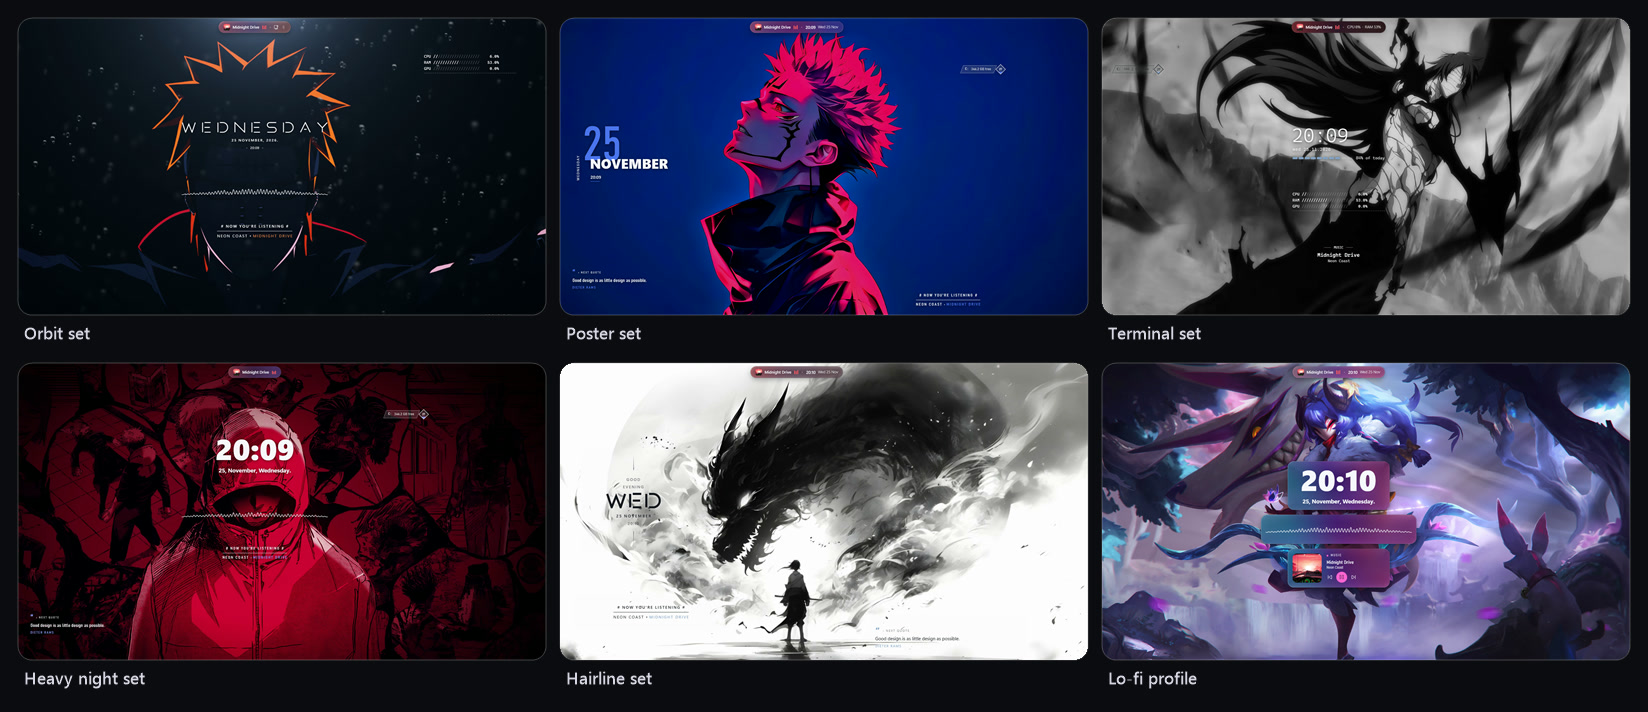
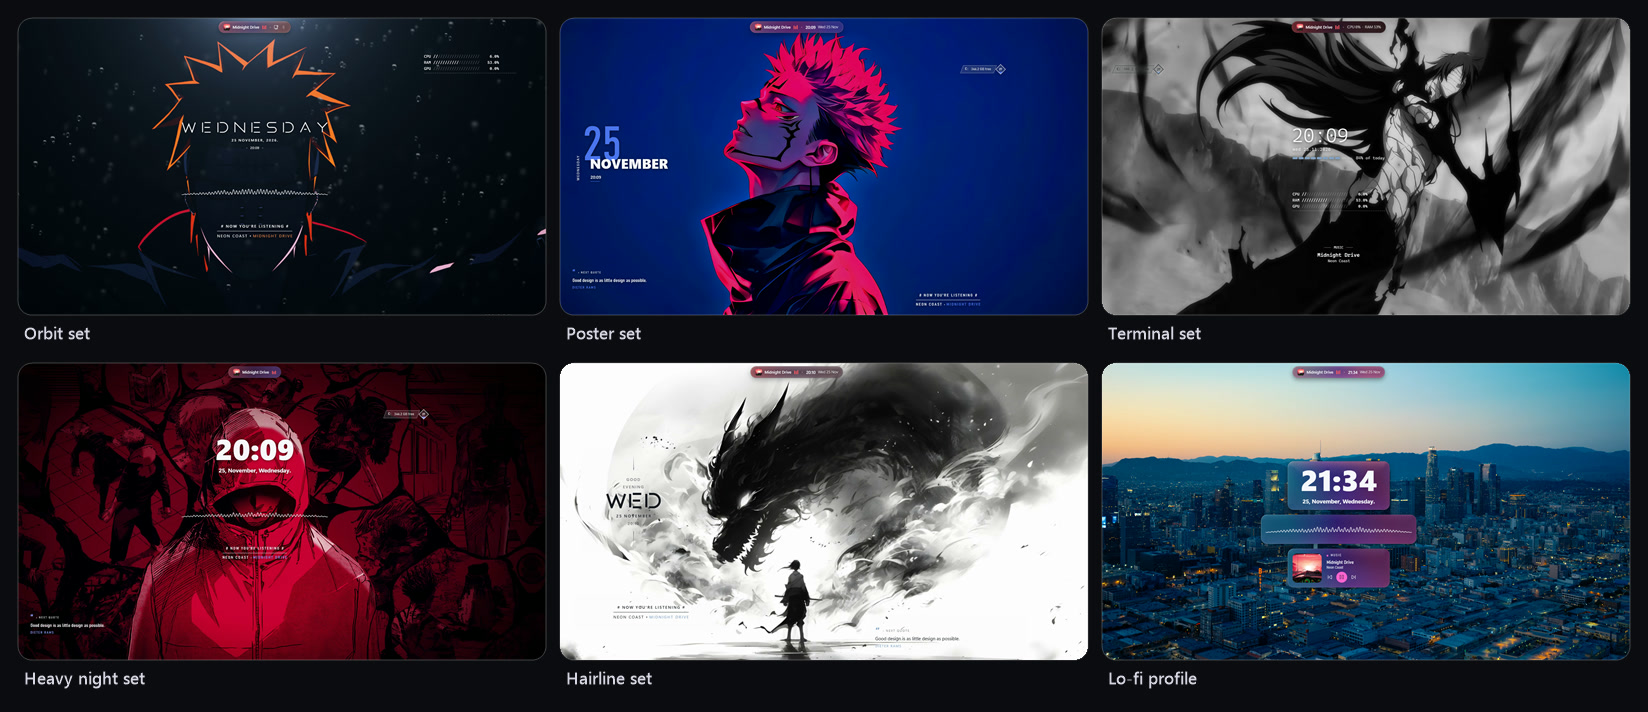
README: the real setup over a live wallpaper, no more Kindred
The liquid-glass picture now shows the owner's own desktop (Liquid Clear over the
black-liquid-metal live wallpaper) beside Sukuna, with the lens off/on close-up on Sukuna.
Two GIFs recorded live: clicking through the island's tabs as the glass changes colour,
and four songs tinting it. The Neon theme, the glass widgets and the Lo-fi profile are
re-shot over Night City and Los Angeles. Wallpaper credits updated.

Changed region(s): [[0.6499, 0.4944, 0.9903, 0.927]]

diff --git a/README.md b/README.md
@@ -34,10 +34,18 @@
 
 <table>
   <tr>
-    <td colspan="2"><img src="docs/assets/shot-liquid.jpg" alt="The island opened in the Liquid Clear theme: the Control Centre over a colourful fantasy wallpaper and the now-playing panel over an anime portrait, both clear enough to see the art through. Below, a close-up of the same corner with the liquid lens off (a flat pane) and on (the rim bends the art behind it, with a prism fringe)"></td>
+    <td colspan="2"><img src="docs/assets/shot-liquid.jpg" alt="The now-playing panel in the Liquid Clear theme, twice: over a black liquid-metal live wallpaper, tinted rose by the album cover, and over an anime portrait clear enough to see the art through. Below, a close-up of the same corner with the liquid lens off (a flat pane) and on (the rim bends the art behind it, with a prism fringe)"></td>
   </tr>
   <tr>
-    <td colspan="2"><b>True liquid glass</b><br><sub>Liquid Clear is nearly clear glass with a thick, rounded rim that bends the wallpaper like a real lens, with a hint of prism. Bottom: the same corner with the lens off and on. Runs on the graphics card.</sub></td>
+    <td colspan="2"><b>True liquid glass</b><br><sub>Liquid Clear is nearly clear glass with a thick, rounded rim that bends the wallpaper like a real lens, with a hint of prism. Top left is the developer's own desktop. Bottom: the same corner with the lens off and on. Runs on the graphics card.</sub></td>
+  </tr>
+  <tr>
+    <td width="50%"><img src="docs/assets/island-live.gif" alt="Recorded live: the pointer clicks the island over a moving liquid-metal wallpaper; it opens rose-tinted for the song, turns night blue on the weather tab, then dark for the calendar and system tabs"></td>
+    <td width="50%"><img src="docs/assets/album-tint.gif" alt="Recorded live: four songs in a row, and the glass flows to each cover's colours: violet and blue, teal, deep red, then rose"></td>
+  </tr>
+  <tr>
+    <td><b>Live, over a live wallpaper</b><br><sub>Click it and the glass follows what's inside: rose for the song, night blue for Tokyo's weather.</sub></td>
+    <td><b>Every song, its own colour</b><br><sub>Four songs in a row, recorded at real speed.</sub></td>
   </tr>
   <tr>
     <td colspan="2"><img src="docs/assets/shot-desktop.jpg" alt="A whole desktop in the Orbit set: WEDNESDAY in wide Orbit letters, a music line and what's playing under it, CPU, RAM and GPU as slashes in the corner, and the island showing a song, over an anime wallpaper"></td>
@@ -46,7 +54,7 @@
     <td colspan="2"><b>Widgets that live on your wallpaper</b><br><sub>The Orbit set: clock, music line, now playing and system pieces drawn straight on the wallpaper, their ink following what's under them.</sub></td>
   </tr>
   <tr>
-    <td colspan="2"><img src="docs/assets/shot-sets.jpg" alt="Six desktops: the Orbit, Poster, Terminal, Heavy night and Hairline desktop sets and the Lo-fi profile, each over a different anime wallpaper"></td>
+    <td colspan="2"><img src="docs/assets/shot-sets.jpg" alt="Six desktops: the Orbit, Poster, Terminal, Heavy night and Hairline desktop sets over anime wallpapers, and the Lo-fi profile over Los Angeles at dusk"></td>
   </tr>
   <tr>
     <td colspan="2"><b>Desktop sets and profiles</b><br><sub>A whole look in one click: a clock skin with its matching pieces, a theme and the island's glance. Share yours as a <code>.winorbitset</code> file.</sub></td>
@@ -101,7 +109,7 @@
   </tr>
   <tr>
     <td><img src="docs/assets/shot-agents.png" alt="Coding agents: one session needs you (orange), one is working, one is done, from Claude Code and Codex"></td>
-    <td><img src="docs/assets/widgets.jpg" alt="Glass widgets in the Neon theme: a month calendar, a stacked clock, CPU, RAM and GPU rings, a focus timer, notes and a dot-matrix clock"></td>
+    <td><img src="docs/assets/widgets.jpg" alt="Glass widgets in the Neon theme over a neon night city: a month calendar, a stacked clock, CPU, RAM and GPU rings, a focus timer, notes and a dot-matrix clock"></td>
   </tr>
   <tr>
     <td><b>Coding agents</b> <sub>(opt-in)</sub><br><sub>See what Claude Code and Codex are doing. The island glows orange while one waits for you.</sub></td>
@@ -116,7 +124,7 @@
   <br><sub>13 themes, 8 rim colours, 5 shapes, 5 surfaces and 3 sizes. Six of the themes, each with one of the island's live cards.</sub>
 </p>
 
-<sub>Screenshots: the island at 1.25× to 1.4× size, using WinOrbit's built-in previews. The songs are demo tracks with made-up names, the calendar events are made up and the weather shows Tokyo. Wallpapers are frames of Wallpaper Engine wallpapers from the Steam Workshop (Spirit Blossom Kindred, Minimal Sukuna 4K, Pain Yahiko, Samurai vs ShadowDragon, Ichigo Bleach, Itadori Yuji, Goku Ultra Instinct); credit to their artists and creators.</sub>
+<sub>Screenshots: the island at 1.25× to 1.4× size, using WinOrbit's built-in previews. The songs are demo tracks with made-up names, the calendar events are made up and the weather shows Tokyo. Wallpapers are Wallpaper Engine wallpapers from the Steam Workshop (black-liquid-metal, Minimal Sukuna 4K, Pain Yahiko, Samurai vs ShadowDragon, Ichigo Bleach, Itadori Yuji, Goku Ultra Instinct, Night City - Cyberpunk 2077, Above Los Angeles); credit to their artists and creators.</sub>
 
 ---
 
